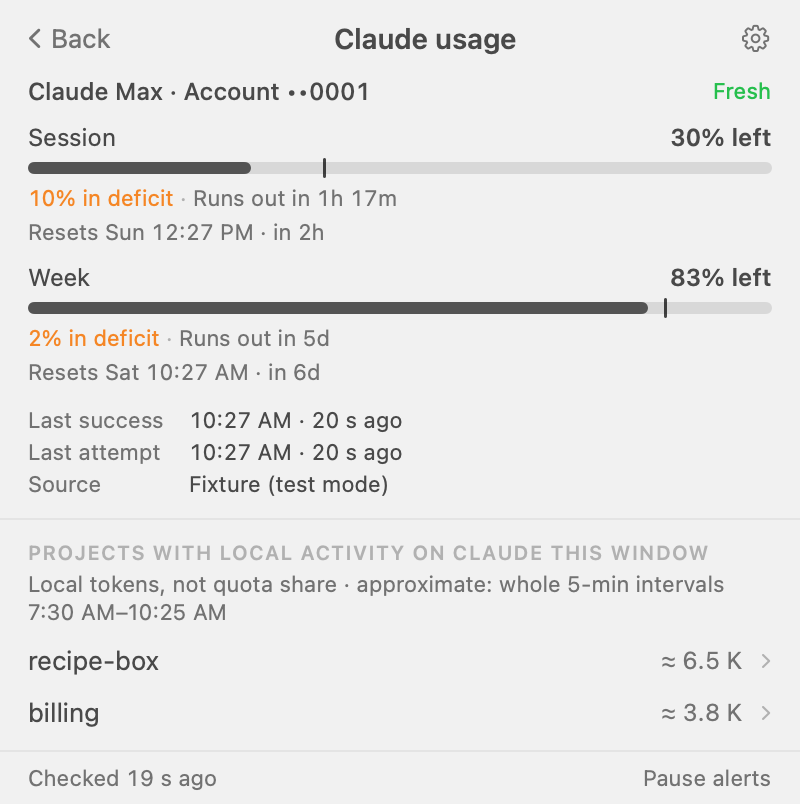
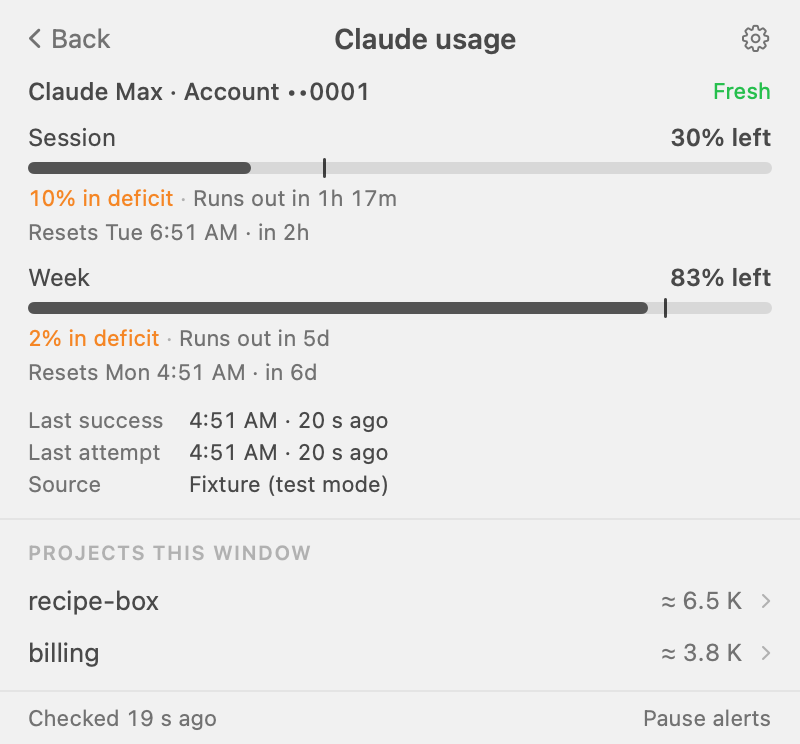
Installer opens the app reliably after an update; README and changelogs brought up to 0.0.12
- install.sh retries the launch for up to 10 s and checks the app runs (LSOpen -600 after replace)
- README pictures retaken from 0.0.12 test mode, plus the menu bar count
- README describes Needs you, compact usage, and the stored needs-you yes/no
- 0.0.2 release notes added; 0.0.12 notes say only T3 Code opens the exact thread

diff --git a/README.md b/README.md
@@ -5,14 +5,16 @@ Version 0.0.12 · macOS 14 or later · Apple silicon · [MIT License](LICENSE)
 Lighthouse 2 is a menu bar app for people who run coding agents in Claude Code, Codex and T3 Code. Click the lighthouse in the menu bar, or press ⌃⌥Space, and one panel shows:
 
 - how much of your Claude and Codex limits is left, and whether your current pace runs out before the window resets,
-- which agent is waiting for your approval, has gone quiet, or has stalled,
+- which thread needs you: one waiting for your approval or input, or one whose last message asks you a question, offers a choice or hands you a task,
 - your projects, each opening to its threads and their subagents,
-- an Open button that takes you to the thread in the app that owns it: T3 Code, the ChatGPT (Codex) app, or the Claude app.
+- a button that opens the thread's own app: T3 Code opens the exact thread; the ChatGPT (Codex) app and the Claude app open to their main window, and the thread page has **Copy session ID**.
+
+When something needs you, a red count appears next to the lighthouse in the menu bar.
 
 It only watches. It never starts, stops, resumes, messages or approves an agent, and it never stores message text.
 
 <p>
-  <img src="docs/images/panel-light.png" width="400" alt="The Lighthouse 2 panel in light mode: Claude and Codex usage with pace, one approval waiting in trail-map, and the recipe-box project open to its three threads">
+  <img src="docs/images/panel-light.png" width="400" alt="The Lighthouse 2 panel in light mode: one line of usage per provider, trail-map tagged Needs you, and billing open to its two threads that need you">
   <img src="docs/images/panel-dark.png" width="400" alt="The same panel in dark mode">
 </p>
 
@@ -52,17 +54,25 @@ The panel opens with a short welcome. It lists the sources it found and offers t
 
 ## What you see
 
-**Usage with pace.** Each bar shows how much of a window is left. The tick marks where you would be at an even pace. Orange "in deficit" means you are using it faster than that and shows when you would run out; green "in reserve" means you are ahead. A provider page lists the projects with local activity in that window and their approximate local token counts.
+**Needs you.** A yellow **Needs you** tag marks each project and thread that is waiting on you. A thread counts when it asks for an approval or input, or when its turn has ended on a question, a choice or a task for you. A finished report or an optional offer does not count. Opening a project lists those threads first. Click a thread's tag to open it: T3 Code opens that thread; Claude and Codex open their app. On a project row, the tag opens the thread when only one is waiting, and opens the row when several are.
+
+In the menu bar, the lighthouse shows the number of threads waiting on you in red, and nothing else.
+
+<img src="docs/images/menu-bar.png" width="380" alt="The menu bar lighthouse alone when nothing waits, and with a red 3 or 12 next to it">
+
+How a thread is judged depends on thread summaries (see Privacy). With summaries on, the summary model also answers yes or no to "does this thread need you now?". With summaries off, Lighthouse 2 checks the wording of the thread's last message on your Mac. Either way, a thread you answered last never counts, and a running thread never counts.
+
+**Usage with pace.** The panel shows one line per provider. Click **USAGE** to see each window in full, with its pace and reset time. Each bar shows how much of a window is left. The tick marks where you would be at an even pace. Orange "in deficit" means you are using it faster than that and shows when you would run out; green "in reserve" means you are ahead. A provider page lists the projects with local activity in that window and their approximate local token counts.
 
 <img src="docs/images/usage-pace.png" width="400" alt="The Claude usage page: session 30 % left and 10 % in deficit, runs out in 1 h 17 m; week 83 % left; projects with local activity this window">
 
-**Projects, threads and subagents.** Active projects sit at the top, quiet ones fold away. A project opens to its threads; a thread opens to its state, last activity, local token count and subagents, with the button that opens it in its own app.
+**Projects, threads and subagents.** Active projects sit at the top, then the ones completed recently (24 hours by default). Quiet projects stay hidden unless you turn them on in Settings › General. Point at a project row to get a one-line button, such as **T3 Code ↗**, that opens the app of the thread named on the row. A project opens to its threads; a thread opens to its state, last activity, local token count and subagents, with the button that opens it in its own app.
 
 <img src="docs/images/project-threads.png" width="400" alt="The recipe-box project page: the thread Recipe card layout expanded, running, with one test-runner subagent and an Open Claude app button">
 
 **Settings.** Panes for General, Sources, Usage, Open-in, Notifications, Summaries and Projects. Summaries are off until you pick a provider.
 
-<img src="docs/images/settings-summaries.png" width="520" alt="Settings, Summaries pane: Off, Claude or ChatGPT, a cap of 30 calls per hour, and what is sent">
+<img src="docs/images/settings-summaries.png" width="520" alt="Settings, Summaries pane: Off, Claude or ChatGPT, a cap of 30 calls per hour, and what is sent (nothing while Off)">
 
 ## Privacy
 
@@ -77,17 +87,17 @@ Lighthouse 2 reads these files in place and never writes to them:
 | T3 Code | `~/.t3/userdata/statev2.sqlite` (opened read-only), `~/.t3/userdata/environment-id` |
 | Project folders | `.git` metadata of the folders your sessions ran in |
 
-From session files it keeps metadata only: paths, IDs, titles, times, token counters and states. It does not store or log message text, prompts, tool output or approval text, and it does not copy the T3 or Codex databases. Symbolic links inside the session folders are not followed.
+From session files it keeps metadata only: paths, IDs, titles, times, token counters, states and a yes/no for "needs you". To decide that yes/no with summaries off, it reads the last message of each finished thread from the last 48 hours on your Mac and checks its wording; nothing is sent. It does not store or log message text, prompts, tool output or approval text, and it does not copy the T3 or Codex databases. Symbolic links inside the session folders are not followed.
 
 It writes only its own files:
 
-- `~/Library/Application Support/Lighthouse/lighthouse.sqlite`: the metadata above, your pins and settings, and, with summaries on, each summary line and a hash of the request that made it,
+- `~/Library/Application Support/Lighthouse/lighthouse.sqlite`: the metadata above, your pins and settings, and, with summaries on, each summary line, its needs-you yes/no and a hash of the request that made it,
 - `~/Library/Caches/com.lighthouse.v2/summary-scratch`: an empty folder the summary command runs in (summaries on only),
 - `~/Library/Preferences/com.lighthouse.v2.plist`: the Settings window position.
 
 **Network.** With usage turned on, Lighthouse 2 sends one HTTPS request every 2 minutes per provider, to `api.anthropic.com/api/oauth/usage` (Claude) or `chatgpt.com/backend-api/wham/usage` (Codex), with your existing sign-in token. It keeps tokens in memory only, never refreshes them, and never writes them to its store or log. It opens no listening port. With usage off and summaries off, it sends nothing.
 
-**Thread summaries are opt-in and send text.** If you turn them on in Settings › Summaries, Lighthouse 2 runs the `claude` or `codex` command-line tool you already have, signed in to your own subscription, to write a one-line summary of each active thread. Each request carries the thread's title, project name, state and the last 24 KB of user and assistant text. Tool calls, tool output and file contents are left out, and known secret patterns (API keys, tokens, private keys, `password=…`) are replaced with `[redacted]` before sending. That text goes to Anthropic or OpenAI, whichever you picked. The default models are `claude-haiku-5-5` and `gpt-6-luna`; at most 30 calls per hour by default. Only the summary and a hash of the request are stored. The Codex CLI also sends your global `~/.codex/AGENTS.md`; codex-cli 0.165.0 has no switch to leave it out. Turning summaries Off stops all reading and sending.
+**Thread summaries are opt-in and send text.** If you turn them on in Settings › Summaries, Lighthouse 2 runs the `claude` or `codex` command-line tool you already have, signed in to your own subscription, to write a one-line summary of each active thread. Each request carries the thread's title, project name, state and the last 24 KB of user and assistant text. Tool calls, tool output and file contents are left out, and known secret patterns (API keys, tokens, private keys, `password=…`) are replaced with `[redacted]` before sending. That text goes to Anthropic or OpenAI, whichever you picked. The default models are `claude-haiku-5-5` and `gpt-6-luna`; at most 30 calls per hour by default. The same call also answers whether the thread needs you. Only the summary, that yes/no and a hash of the request are stored. The Codex CLI also sends your global `~/.codex/AGENTS.md`; codex-cli 0.165.0 has no switch to leave it out. Turning summaries Off stops all reading and sending.
 
 ## Requirements
 
@@ -123,6 +133,10 @@ scripts/package.sh    # Release build: dist/Lighthouse-2-0.0.12.zip and its .sha
 `scripts/package.sh` builds with SwiftPM, so it works without opening Xcode. It strips the binary (symbols go to `dist/Lighthouse.app.dSYM`), signs ad-hoc and writes a zip that holds only `Lighthouse 2.app`. Set `SIGN_IDENTITY` to sign with your own certificate. `App/Lighthouse.xcodeproj`, generated from `App/project.yml` with XcodeGen, builds the same app in Xcode.
 
 The app's bundle id is `com.lighthouse.v2`. Settings, permissions and the store are tied to that id, so they carry over from earlier builds.
+
+## Changes
+
+See [CHANGELOG.md](CHANGELOG.md). Notes for each release are in [docs/release-notes/](docs/release-notes/).
 
 ## Security
 

diff --git a/CHANGELOG.md b/CHANGELOG.md
@@ -4,13 +4,34 @@ All notable changes to Lighthouse 2. Newest first. Versions follow the app's
 `CFBundleShortVersionString`. Release notes for each version are in
 [docs/release-notes/](docs/release-notes/).
 
+## Installer and README — 2026-11-03
+
+The app is unchanged at 0.0.12; this updates `install.sh` and the docs on `main`.
+
+### Fixed
+- `install.sh` opens the app after an update again. Right after the old copy
+  quit and the folder was replaced, macOS could refuse the launch with LSOpen
+  error -600, so the app was installed but not running. The installer now
+  retries for up to 10 seconds and checks that Lighthouse 2 is running. If it
+  still is not, it says so and asks you to open it from Applications.
+
+### Changed
+- README pictures retaken from 0.0.12 in test mode, with a new one of the
+  menu bar count. The README now describes **Needs you** (what counts, the
+  tags, the red count) and the compact usage line, and its Privacy section
+  states that a needs-you yes/no is stored and how it is judged with
+  summaries on and off.
+- Release notes for 0.0.2 added to `docs/release-notes/`.
+- The 0.0.12 entry and release notes now say that only T3 Code opens the exact
+  thread; Claude and Codex open their app, as since 0.0.2.
+
 ## 0.0.12 — 2026-11-03
 
 ### Changed
 - Opening a project lists every thread that needs you first, each with its own
   yellow **Needs you** tag (oldest wait first), then the usual threads.
 - **Needs you** tags are buttons. On a thread, the tag opens that thread in its
-  app. On a project, it opens the thread when one waits, and expands the row
+  app (the exact thread in T3 Code; Claude and Codex open their app). On a project, it opens the thread when one waits, and expands the row
   when several do. The row's T3 Code ↗ button is unchanged.
 
 ## 0.0.11 — 2026-11-03

diff --git a/docs/release-notes/0.0.2.md b/docs/release-notes/0.0.2.md
@@ -1,0 +1,17 @@
+# Lighthouse 2 0.0.2
+
+First public release of Lighthouse 2, a macOS menu bar app that shows your Claude and Codex usage left, which coding agent needs you, and your projects with their threads and subagents. It only watches; it never controls an agent.
+
+## In this release
+
+- The app is named Lighthouse 2 and installs as `/Applications/Lighthouse 2.app`. The bundle id stays `com.lighthouse.v2`, so settings and permissions from earlier private builds carry over. The installer moves an older `/Applications/Lighthouse.app` to the Trash.
+- Usage bars for Claude (session and week) and Codex, with the percent left, reserve or deficit against an even pace, and when the current pace runs out.
+- One line for what needs you: approvals waiting, agents gone quiet, stalled threads.
+- Projects, threads and subagents from Claude Code, Codex and T3 Code, with Open buttons that go to the owning app.
+- Optional one-line thread summaries through your own `claude` or `codex` CLI. Off by default; when on, recent conversation text goes to the provider you pick.
+
+## Known limits
+
+- Signed ad-hoc and not notarized. A browser download needs Open Anyway once; the command-line install does not.
+- Apple silicon only. macOS 14 or later is declared; this release ran on macOS 26.5 and was built and tested on 26.6. Earlier versions are untested.
+- Claude and Codex links open the app, not the exact thread. T3 Code links open the exact thread.

diff --git a/docs/release-notes/0.0.12.md b/docs/release-notes/0.0.12.md
@@ -4,7 +4,8 @@ See exactly which threads need you.
 
 - When a project says **Needs you · 2**, open it: the threads that need you are
   listed first, each with its own yellow **Needs you** tag.
-- Click a thread's **Needs you** tag to open that thread in its app. On the
+- Click a thread's **Needs you** tag to open that thread in its app. T3 Code
+  opens the exact thread; Claude and Codex open their app. On the
   project row, the tag opens the thread when only one waits, and expands the row
   when several do.
 
